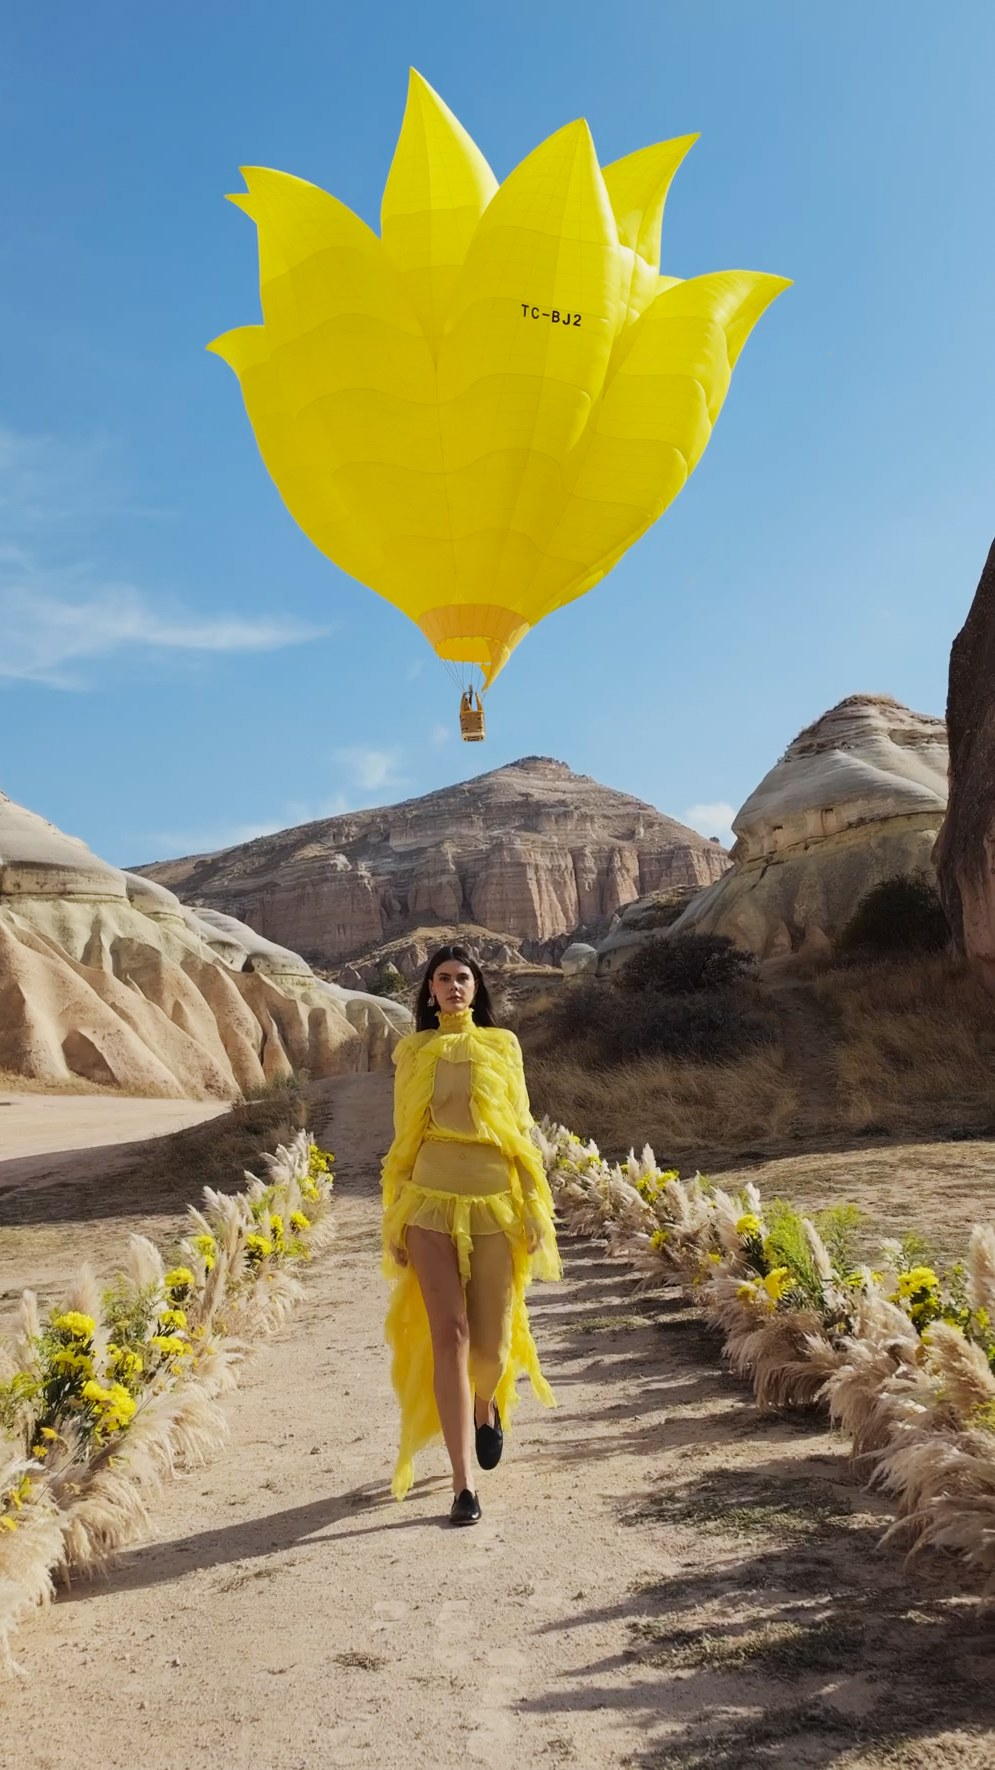
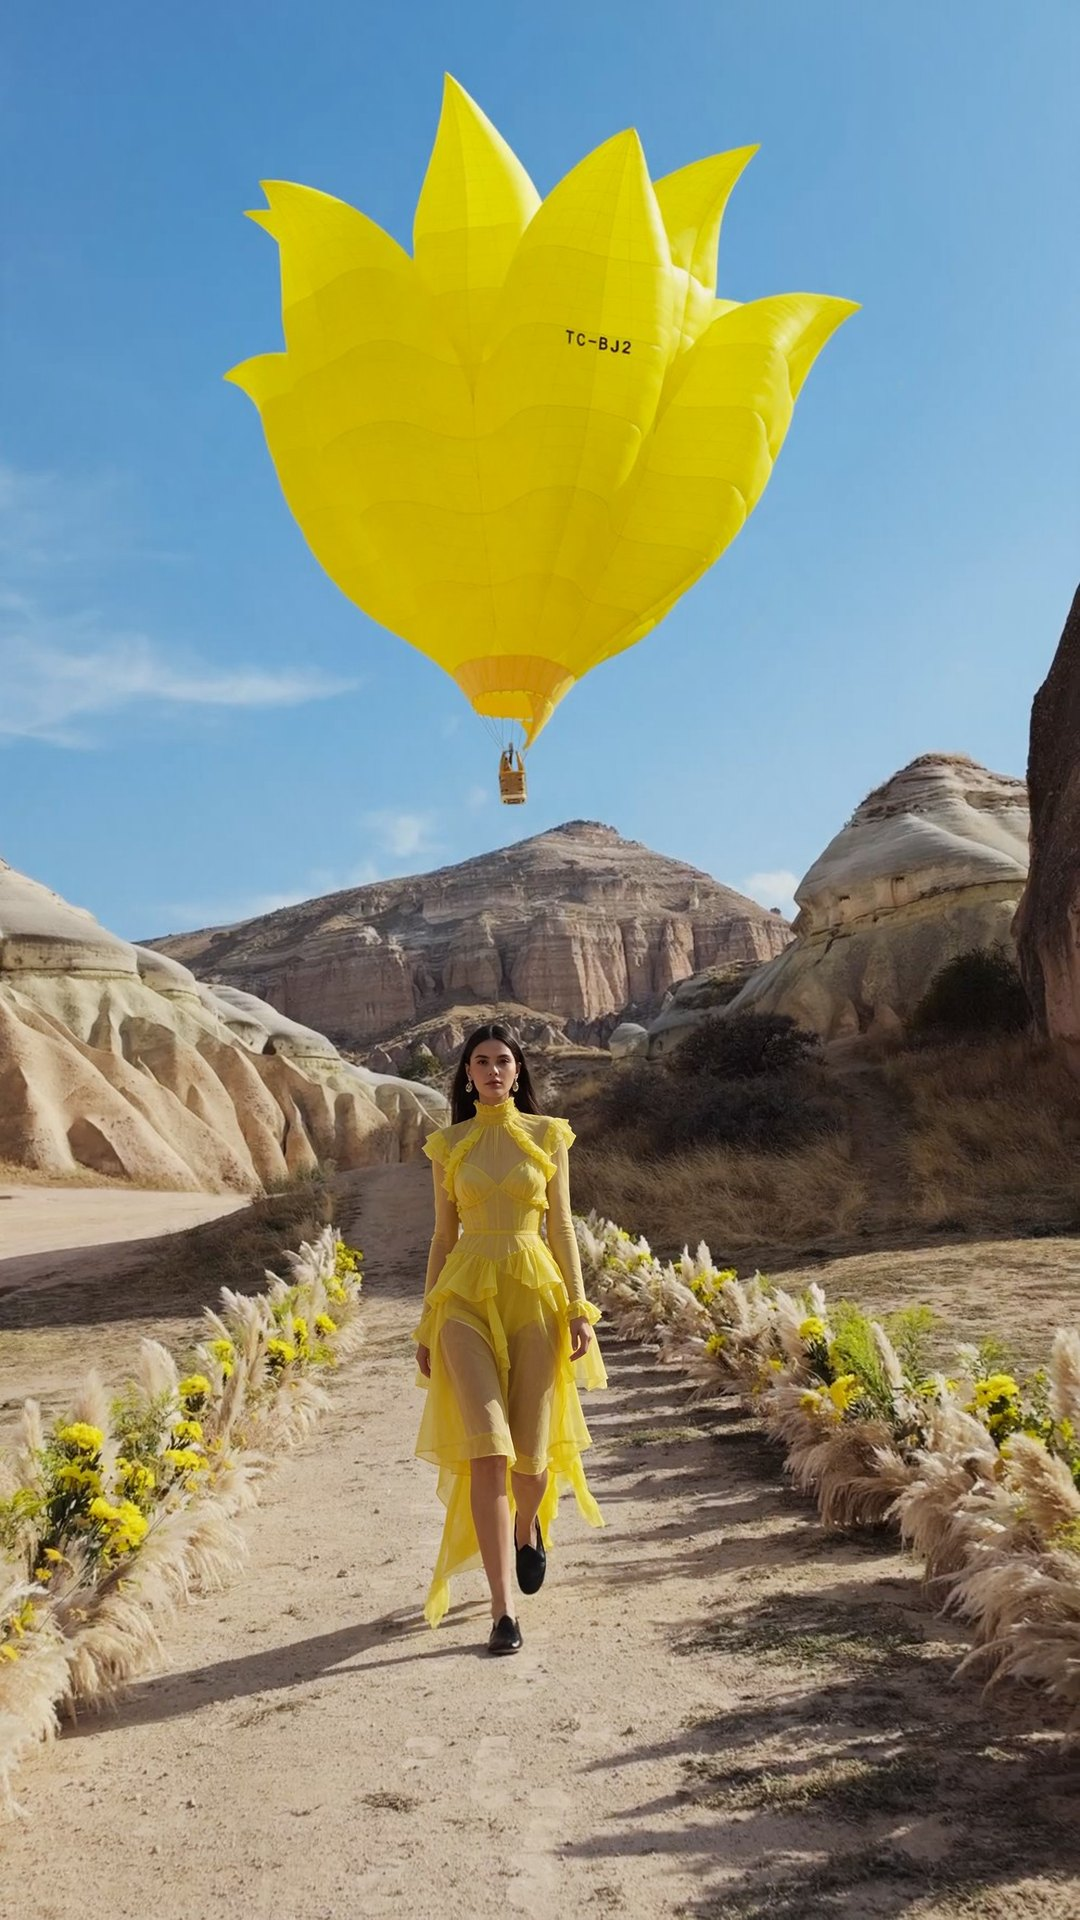
Benjamins: new yellow look image
Claude-Session: https://claude.ai/code/session_019otJJxeEBoUogCReBSfgxp

Changed region(s): [[0.3739, 0.5282, 0.5608, 0.8079]]

diff --git a/benjamins.html b/benjamins.html
@@ -414,7 +414,7 @@ body{counter-reset:sec}
     <div class="trio">
       <figure><div class="m"><img src="media/les-benjamins/look-pink-sm.jpg" srcset="media/les-benjamins/look-pink-sm.jpg 540w, media/les-benjamins/look-pink.jpg 1080w" sizes="(max-width:820px) 92vw, 30vw" alt="A model in pink walks the runway under the pink balloon" loading="lazy"></div></figure>
       <figure><div class="m"><img src="media/les-benjamins/look-green-sm.jpg" srcset="media/les-benjamins/look-green-sm.jpg 540w, media/les-benjamins/look-green.jpg 1080w" sizes="(max-width:820px) 92vw, 30vw" alt="A model in the spiked green look under the green balloon" loading="lazy"></div></figure>
-      <figure><div class="m"><img src="media/les-benjamins/look-yellow-sm.jpg" srcset="media/les-benjamins/look-yellow-sm.jpg 497w, media/les-benjamins/look-yellow.jpg 995w" sizes="(max-width:820px) 92vw, 30vw" alt="A model in yellow walks the runway under the yellow balloon" loading="lazy"></div></figure>
+      <figure><div class="m"><img src="media/les-benjamins/look-yellow-sm.jpg" srcset="media/les-benjamins/look-yellow-sm.jpg 540w, media/les-benjamins/look-yellow.jpg 1080w" sizes="(max-width:820px) 92vw, 30vw" alt="A model in yellow walks the runway under the yellow balloon" loading="lazy"></div></figure>
     </div>
     <div class="pair">
       <figure class="p1"><div class="m"><img src="media/les-benjamins/duo-green-1.jpg" srcset="media/les-benjamins/duo-green-1-sm.jpg 1400w, media/les-benjamins/duo-green-1.jpg 2576w" sizes="(max-width:820px) 92vw, 36vw" alt="A model in the spiked green look, looking up into the open mouth of the green balloon" loading="lazy"></div></figure>
